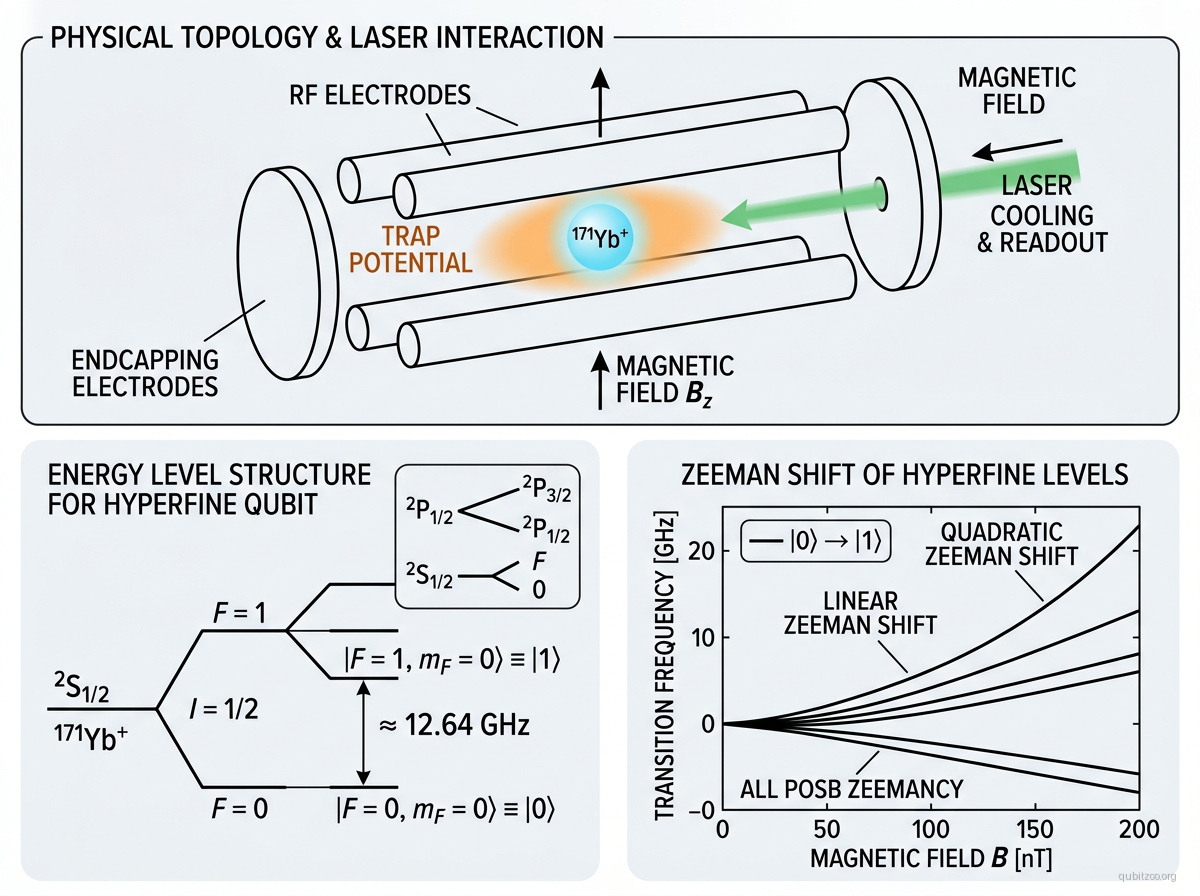
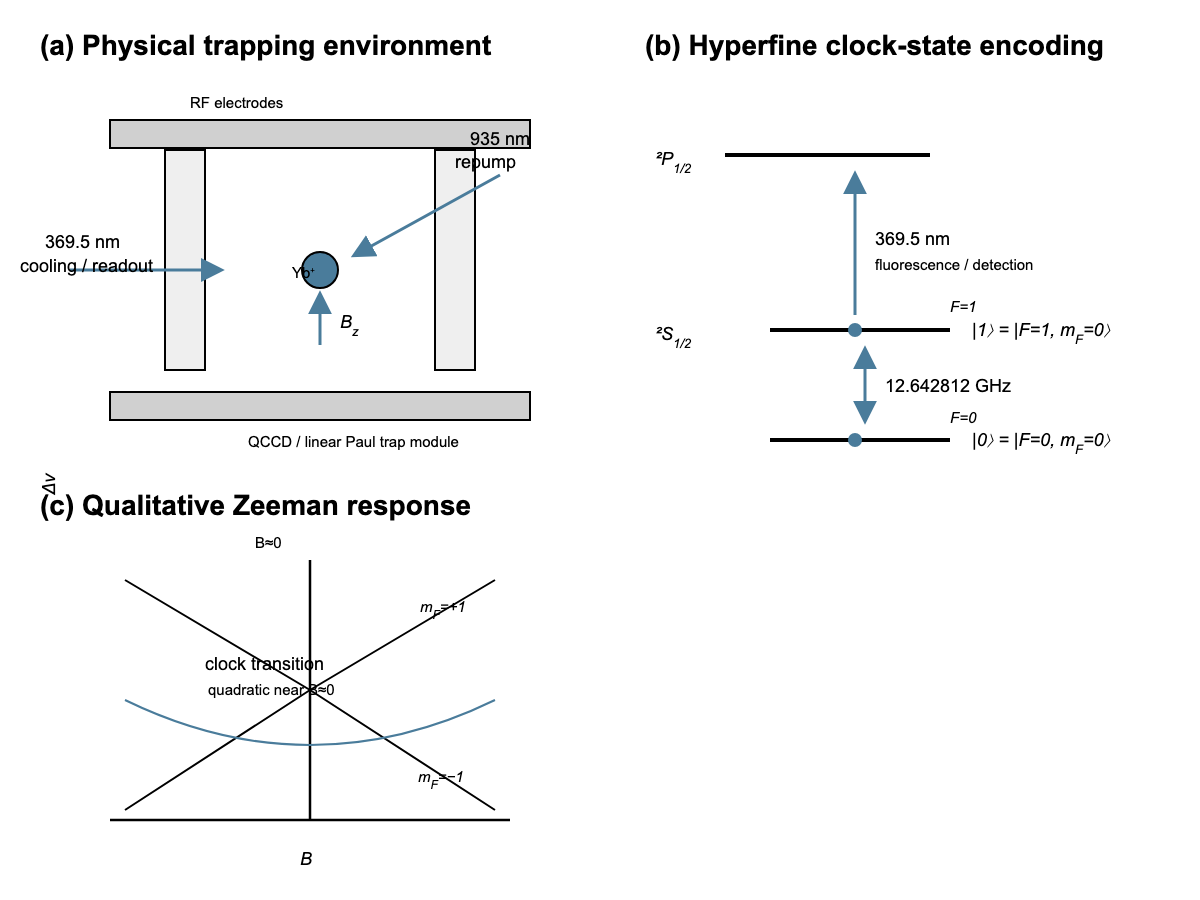
audit: refresh ytterbium-hyperfine-qubit

Changed region(s): [[0.0, 0.0312, 0.9867, 0.9688], [0.925, 0.9688, 0.9867, 1.0], [0.1233, 0.6562, 0.1542, 0.6875]]

diff --git a/content/Zoo/ytterbium-hyperfine-qubit.md b/content/Zoo/ytterbium-hyperfine-qubit.md
@@ -17,10 +17,10 @@ keywords:
 - Quantinuum
 - IonQ
 influence_score: 0.88
-last_updated: '2026-03-21'
+last_updated: '2026-05-06'
 generated_by: scibok-curation
 extracted_by: scibok
-verified_by: scibok-manual-2026-03-21
+verified_by: scibok-deep-audit-2026-05-06
 ---
 
 ## Figure
@@ -29,95 +29,118 @@ verified_by: scibok-manual-2026-03-21
 
 ## Description
 
-The ytterbium-171 hyperfine qubit encodes quantum information in the two hyperfine clock states of the $^{171}\text{Yb}^+$ ion's $^2S_{1/2}$ ground-state manifold: $|0\rangle \equiv |F=0, m_F=0\rangle$ and $|1\rangle \equiv |F=1, m_F=0\rangle$, separated by 12.642812 GHz. Both states have $m_F=0$, making the qubit first-order insensitive to magnetic field fluctuations — the transition frequency shifts only quadratically with field, enabling exceptionally long coherence times.
+The ytterbium-171 hyperfine qubit encodes quantum information in the two clock states of the $^{171}\mathrm{Yb}^+$ $^2S_{1/2}$ ground-state manifold: $|0\rangle \equiv |F=0,m_F=0\rangle$ and $|1\rangle \equiv |F=1,m_F=0\rangle$, separated by 12.642812 GHz. Because both basis states have $m_F=0$, the qubit transition is first-order insensitive to magnetic-field noise, and the frequency shifts only quadratically with $B$ near zero field.
 
-The $^{171}\text{Yb}^+$ ion has nuclear spin $I=1/2$ and no electronic angular momentum in the ground state ($J=1/2$), yielding the simplest possible hyperfine structure: just four ground states. This simplicity, combined with convenient photoionization loading and state-dependent fluorescence detection on the $^2S_{1/2} \leftrightarrow {^2P_{1/2}}$ cycling transition at 369.5 nm, makes it the workhorse qubit for multiple trapped-ion quantum computing platforms including Quantinuum (H-series processors) and IonQ.
+This species has nuclear spin $I=1/2$, so the $^2S_{1/2}$ ground manifold has a particularly simple hyperfine structure. Together with efficient fluorescence detection on the $^2S_{1/2}\leftrightarrow {}^2P_{1/2}$ transition at 369.5 nm and standard repumping through 935 nm light, that simplicity helped make $^{171}\mathrm{Yb}^+$ the workhorse qubit species for commercial trapped-ion systems such as Quantinuum H-series processors and much of IonQ's early architecture.
 
-Two-qubit entangling gates are performed via the Coulomb-mediated motional bus using either Raman transitions (stimulated Raman with 355 nm pulsed laser) or microwave-driven schemes. Gate fidelities exceeding 99.9% have been demonstrated (Ballance et al. 2016, Gaebler et al. 2016).
+Entangling gates use shared motional modes of the ion chain, typically through Raman-driven geometric-phase or Mølmer-Sørensen interactions. In mixed-species systems, $^{171}\mathrm{Yb}^+$ also plays an important auxiliary role because its clock-state coherence and laser infrastructure make it attractive for sympathetic cooling, memory, and control tasks alongside other trapped-ion qubit species.
 
 ## Hamiltonian
 
-The ground-state hyperfine Hamiltonian is:
+A representative ground-manifold Hamiltonian is
 
-$$H_{\text{hfs}} = A_{\text{hfs}} \, \mathbf{I} \cdot \mathbf{J}$$
+$$H = A_{\mathrm{hfs}}\,\mathbf{I}\cdot\mathbf{J} + \mu_B\left(g_JJ_z + g_II_z\right)B,$$
 
-where $A_{\text{hfs}}$ is the magnetic dipole hyperfine constant, $\mathbf{I}$ is the nuclear spin, and $\mathbf{J}$ is the electronic angular momentum. For $^{171}\text{Yb}^+$ with $I = J = 1/2$, this gives a splitting:
+where $A_{\mathrm{hfs}}$ is the magnetic-dipole hyperfine constant, $\mathbf{I}$ is the nuclear spin, $\mathbf{J}$ is the electronic angular momentum, and $B$ is an external magnetic field.
 
-$$\Delta E_{\text{hfs}} = A_{\text{hfs}} = h \times 12.642812\,\text{GHz}$$
+For $^{171}\mathrm{Yb}^+$, $I=J=1/2$, so the ground-state hyperfine splitting is
 
-In an external magnetic field $B$, the clock-state transition frequency has only a second-order Zeeman shift:
+$$\Delta E_{\mathrm{hfs}} = h\times 12.642812\,\mathrm{GHz}.$$
 
-$$\omega_{01}(B) = \omega_{01}(0) + \beta B^2$$
+The full field dependence is described by the Breit-Rabi formula. Near $B=0$, the clock transition $|F=0,m_F=0\rangle \leftrightarrow |F=1,m_F=0\rangle$ has no first-order Zeeman shift, so
 
-where $\beta / 2\pi \approx 310.8\,\text{Hz/mT}^2$, providing excellent field insensitivity.
+$$\omega_{01}(B) \approx \omega_{01}(0) + \beta B^2,$$
+
+with $\beta/2\pi \approx 31\,\mathrm{kHz/mT^2}$, equivalently about $310\,\mathrm{Hz/G^2}$. By contrast, the $|F=1,m_F=\pm1\rangle$ states acquire approximately linear Zeeman shifts at low field.
 
 ## Motivation
 
-Trapped-ion qubits require long coherence times and high-fidelity operations to serve as building blocks for fault-tolerant quantum computing. Hyperfine clock states in $^{171}\text{Yb}^+$ provide first-order magnetic field insensitivity without active stabilization, coherence times exceeding 10 minutes, and a microwave-frequency splitting compatible with high-stability oscillators. The simple level structure and efficient state detection make $^{171}\text{Yb}^+$ the most widely deployed trapped-ion qubit platform.
+Trapped-ion quantum computing needs qubits with long coherence, clean state preparation and measurement, and high-fidelity microwave or laser control. The $^{171}\mathrm{Yb}^+$ clock-state qubit satisfies all three. It supports hour-scale coherence under dynamical decoupling, microsecond single-qubit gates, high-fidelity fluorescence readout, and robust transport in QCCD architectures. Those properties explain why it became one of the dominant trapped-ion qubit implementations in both laboratory and commercial systems.
 
 ## Experimental Status
 
-**First characterization — Olmschenk et al. (2007):**
-- Demonstrated manipulation and detection of a trapped $\text{Yb}^+$ hyperfine qubit
-- Characterized state preparation, single-qubit gates, and state-dependent fluorescence readout
-- Established the $^{171}\text{Yb}^+$ system as a viable qubit platform
+**Foundational characterization, Olmschenk et al. (2007):**
+- Demonstrated manipulation and detection of a trapped $^{171}\mathrm{Yb}^+$ hyperfine qubit.
+- Established the canonical clock-state encoding and fluorescence-readout workflow.
 
-**High-fidelity two-qubit gates — Ballance et al. (2016):**
-- Achieved 99.9(1)% two-qubit gate fidelity using light-shift gates on $^{171}\text{Yb}^+$ hyperfine qubits
-- Oxford group demonstration using geometric phase gates
+**Microwave control scaling, Shappert et al. (2013):**
+- Demonstrated spatially uniform near-field microwave single-qubit control in a surface-electrode trap.
+- Reached about 1 $\mu$s $\pi$-rotations on the $^{171}\mathrm{Yb}^+$ hyperfine transition.
 
-**High-fidelity gate set — Gaebler et al. (2016):**
-- Demonstrated a high-fidelity universal gate set for $^9\text{Be}^+$ with amplitude-modulated Mølmer-Sørensen gates
-- Methods directly applicable and transferred to $\text{Yb}^+$ platforms
+**Fast high-fidelity readout, Noek et al. (2013):**
+- Demonstrated 99.93% state-preparation-and-measurement fidelity for a $^{171}\mathrm{Yb}^+$ hyperfine qubit.
+- Used background-suppressed fluorescence detection on the 369.5 nm cycling transition.
 
-**Long coherence — Wang et al. (2021):**
-- Single ion qubit with estimated coherence time exceeding one hour using dynamical decoupling sequences
-- Demonstrated the extraordinary coherence potential of clock-state encodings
+**Transport robustness, Kaufmann et al. (2018):**
+- Measured 99.9994% state fidelity per shuttling operation during repeated transport of a $^{171}\mathrm{Yb}^+$ hyperfine qubit.
+- Important evidence that QCCD transport can preserve clock-state information with negligible added error.
 
-**System-level deployment — Quantinuum H2 (2024):**
-- 56-qubit fully connected $^{171}\text{Yb}^+$ register
-- System-level two-qubit gate fidelities of 99.8%
-- Mid-circuit measurement and qubit reuse demonstrated, enabling real-time quantum error correction
+**Long single-ion coherence, Wang et al. (2021):**
+- Demonstrated a single-ion $^{171}\mathrm{Yb}^+$ qubit with estimated coherence time exceeding one hour under dynamical decoupling.
+- Showed how improved magnetic-noise suppression and oscillator stability push clock-state memory far beyond the raw $T_2^*$ limit.
+
+**Integrated photonic control, Hogle et al. (2023):**
+- Demonstrated high-fidelity $^{171}\mathrm{Yb}^+$ single-qubit operations using scalable photonic modulators.
+- Important because it ties Yb control fidelity to an architecture compatible with optical fanout and scaling.
+
+**Logical experiments on commercial Yb hardware, Berthusen et al. (2024):**
+- Performed 4D surface-code experiments on Quantinuum's H2 QCCD processor, which was configured with 56 physical $^{171}\mathrm{Yb}^+$ qubits.
+- Reported a physical-layer error budget dominated by two-qubit gate errors $\le 1.3\times10^{-3}$, single-qubit gate errors $\sim 3\times10^{-5}$, and SPAM errors $\sim 1.5\times10^{-3}$.
+
+**Dual-species commercial scale-up, Ransford et al. (2025):**
+- Reported Quantinuum Helios, a 98-qubit QCCD processor based on $^{137}\mathrm{Ba}^+$ data qubits.
+- Relevant here because $^{171}\mathrm{Yb}^+$ remains part of the dual-species trapped-ion toolbox for sympathetic-cooling and control roles even when it is not the data-qubit species.
+
+**Ultra-long encoded coherence, Pi et al. (2026):**
+- Reported coherence beyond ten hours in a decoherence-free clock-qubit encoding built from a pair of $^{171}\mathrm{Yb}^+$ ions, sympathetically cooled by barium.
+- Shows that ytterbium clock qubits remain a leading platform for ultra-long-lived trapped-ion quantum memory.
 
 ## Key Metrics
 
 | Metric | Value | Notes | Fidelity reference |
 |--------|-------|-------|--------------------|
-| $T_1$ | >10 s | Radiative lifetime of ground state; effectively infinite | — |
-| $T_2$ (echo) | >10 min | With dynamical decoupling sequences | [Wang et al. 2021](https://doi.org/10.1038/s41467-020-20330-w) |
-| $T_2^*$ | 1–10 s | Limited by magnetic field fluctuations | [Olmschenk et al. 2007](https://doi.org/10.1103/PhysRevA.76.052314) |
-| Hyperfine splitting | 12.642812 GHz | Clock transition, first-order field insensitive | [Olmschenk et al. 2007](https://doi.org/10.1103/PhysRevA.76.052314) |
-| 1Q gate fidelity | 99.99%+ | Randomized benchmarking | [Gaebler et al. 2016](https://doi.org/10.1103/PhysRevLett.117.060505) |
-| 2Q gate fidelity | 99.9% | Light-shift and MS gates | [Ballance et al. 2016](https://doi.org/10.1103/PhysRevLett.117.060504) |
-| SPAM fidelity | 99.93% | Electron shelving detection | [Noek et al. 2013](https://doi.org/10.1364/OE.21.021449) |
-| Gate time (1Q) | 1–10 μs | Microwave or Raman driven | [Olmschenk et al. 2007](https://doi.org/10.1103/PhysRevA.76.052314) |
-| Gate time (2Q) | 30–600 μs | Depends on gate scheme and ion number | [Gaebler et al. 2016](https://doi.org/10.1103/PhysRevLett.117.060505) |
-| Operating temperature | ~4 K (trap) | Room-temperature vacuum; ions laser-cooled to ~mK | — |
+| $T_1$ | Effectively infinite on circuit timescales | Ground-state hyperfine qubit | — |
+| Hyperfine splitting | 12.642812 GHz | Clock transition in $^2S_{1/2}$ | [Olmschenk et al. 2007](https://doi.org/10.1103/PhysRevA.76.052314) |
+| $T_2$ (single ion, DD) | >1 h | Estimated coherence exceeding 5500 s | [Wang et al. 2021](https://doi.org/10.1038/s41467-020-20330-w) |
+| $T_2$ (DFS pair) | >10 h | Pair-encoded decoherence-free clock qubit | [Pi et al. 2026](https://arxiv.org/abs/2603.19631) |
+| 1Q gate error (system) | $\sim 3\times10^{-5}$ | H2 physical-layer error budget on 56 $^{171}\mathrm{Yb}^+$ qubits | [Berthusen et al. 2024](https://doi.org/10.1103/PhysRevA.110.062413) |
+| 2Q gate error (system) | $\le 1.3\times10^{-3}$ | H2 physical-layer error budget | [Berthusen et al. 2024](https://doi.org/10.1103/PhysRevA.110.062413) |
+| SPAM fidelity (single ion) | 99.93% | Background-suppressed fluorescence detection | [Noek et al. 2013](https://doi.org/10.1364/OL.38.004735) |
+| 1Q gate time | ~1 $\mu$s | Near-field microwave $\pi$ rotations | [Shappert et al. 2013](https://doi.org/10.1088/1367-2630/15/8/083053) |
+| Transport fidelity | 99.9994% per hop | 280 $\mu$m shuttling in a microstructured trap | [Kaufmann et al. 2018](https://doi.org/10.1103/PhysRevLett.120.010501) |
+| System scale | 56 qubits | H2 configuration used for 4D surface-code experiments | [Berthusen et al. 2024](https://doi.org/10.1103/PhysRevA.110.062413) |
 
 ## References
 
-### Original characterization
-- S. Olmschenk et al., "Manipulation and detection of a trapped Yb⁺ hyperfine qubit," [Phys. Rev. A 76, 052314 (2007)](https://doi.org/10.1103/PhysRevA.76.052314)
+### Foundational characterization and control
+- S. Olmschenk et al., "Manipulation and detection of a trapped Yb⁺ hyperfine qubit," [Phys. Rev. A 76, 052314 (2007)](https://doi.org/10.1103/PhysRevA.76.052314), [arXiv:0708.0657](https://arxiv.org/abs/0708.0657)
+- C. M. Shappert et al., "Spatially uniform single-qubit gate operations with near-field microwaves and composite pulse compensation," [New J. Phys. 15, 083053 (2013)](https://doi.org/10.1088/1367-2630/15/8/083053), [arXiv:1304.6636](https://arxiv.org/abs/1304.6636)
+- R. Noek et al., "High speed, high fidelity detection of an atomic hyperfine qubit," [Opt. Lett. 38, 4735 (2013)](https://doi.org/10.1364/OL.38.004735)
+- P. Kaufmann et al., "High-Fidelity Preservation of Quantum Information During Trapped-Ion Transport," [Phys. Rev. Lett. 120, 010501 (2018)](https://doi.org/10.1103/PhysRevLett.120.010501), [arXiv:1704.02141](https://arxiv.org/abs/1704.02141)
 
-### High-fidelity gates
-- C. J. Ballance et al., "High-Fidelity Quantum Logic Gates Using Trapped-Ion Hyperfine Qubits," [Phys. Rev. Lett. 117, 060504 (2016)](https://doi.org/10.1103/PhysRevLett.117.060504)
-- J. P. Gaebler et al., "High-Fidelity Universal Gate Set for ⁹Be⁺ Ion Qubits," [Phys. Rev. Lett. 117, 060505 (2016)](https://doi.org/10.1103/PhysRevLett.117.060505)
-
-### Coherence
+### Coherence and scalable control
 - P. Wang et al., "Single ion qubit with estimated coherence time exceeding one hour," [Nat. Commun. 12, 233 (2021)](https://doi.org/10.1038/s41467-020-20330-w)
+- C. W. Hogle et al., "High-fidelity trapped-ion qubit operations with scalable photonic modulators," [npj Quantum Information 9, 67 (2023)](https://doi.org/10.1038/s41534-023-00737-1)
+- J. Pi et al., "Beyond-Ten-Hour Coherence in a Decoherence-Free Trapped-Ion Clock Qubit," [arXiv:2603.19631 (2026)](https://arxiv.org/abs/2603.19631)
 
-### SPAM
-- R. Noek et al., "High speed, high fidelity detection of an atomic hyperfine qubit," [Opt. Express 21, 21449 (2013)](https://doi.org/10.1364/OE.21.021449)
+### Commercial and logical-scale deployment
+- N. Berthusen et al., "Experiments with the four-dimensional surface code on a quantum charge-coupled device quantum computer," [Phys. Rev. A 110, 062413 (2024)](https://doi.org/10.1103/PhysRevA.110.062413), [arXiv:2408.08865](https://arxiv.org/abs/2408.08865)
+- A. Ransford et al., "A 98-qubit trapped-ion quantum computer," [arXiv:2511.05465 (2025)](https://arxiv.org/abs/2511.05465)
 
 ## Linked Papers
 
 - [[olmschenk-2007-yb171-qubit]]
-- [[ballance-2016-ion-gate-fidelity]]
-- [[gaebler-2016-ms-gate]]
+- [[noek-2013-high-speed-detection]]
+- [[wang-2021-single-ion-qubit]]
+- [[berthusen-2024-4d-surface-code-qccd]]
+- [[pi-2026-ten-hour-dfs-memory]]
+- [[ransford-2025-helios-98-qubit]]
 
 ## Related Entries
 
 - [[trapped-ion-qubit]] — parent platform
+- [[shuttling-ion-trap-qubit]] — QCCD transport architecture used in scalable ion processors
+- [[molmer-sorenson-gate]] — widely used entangling-gate family on Yb platforms
 - [[cirac-zoller-gate]] — foundational trapped-ion gate proposal
 - [[motional-mode-coupling-in-ion-traps]] — physics of the Coulomb-mediated bus
 - [[coherence-time-hierarchy]] — context for coherence comparison

diff --git a/content/References/berthusen-2024-4d-surface-code-qccd.md b/content/References/berthusen-2024-4d-surface-code-qccd.md
@@ -1,0 +1,39 @@
+---
+title: "Experiments with the four-dimensional surface code on a quantum charge-coupled device quantum computer"
+authors:
+- Noah Berthusen
+- Joan Dreiling
+- Cameron Foltz
+- John P. Gaebler
+- Thomas M. Gatterman
+- Dan Gresh
+- Nathan Hewitt
+- Michael Mills
+- Steven A. Moses
+- Brian Neyenhuis
+- Peter Siegfried
+- David Hayes
+year: 2024
+journal: "Physical Review A"
+doi: 10.1103/PhysRevA.110.062413
+arxiv_id: '2408.08865'
+type: reference
+generated_by: scibok-deep-audit
+last_updated: '2026-05-06'
+---
+
+Reports 4D surface-code experiments on Quantinuum's H2 QCCD quantum computer, configured with 56 physical $^{171}$Yb$^+$ ion qubits, and summarizes the physical-layer error budget relevant to logical-memory performance.
+
+## Key Results
+- H2 configuration used for this work contained 56 physical $^{171}$Yb$^+$ qubits
+- Physical-layer error budget was dominated by two-qubit gate errors $\le 1.3\times10^{-3}$, single-qubit gate errors $\sim 3\times10^{-5}$, and SPAM errors $\sim 1.5\times10^{-3}$
+- Demonstrated the first experimental single-shot quantum error correction with the [[33,1,4]] 4D surface code on a QCCD trapped-ion processor
+
+## Links
+- **Journal:** [Physical Review A](https://doi.org/10.1103/PhysRevA.110.062413)
+- **arXiv:** [2408.08865](https://arxiv.org/abs/2408.08865)
+
+## Zoo Links
+- [[ytterbium-hyperfine-qubit]]
+- [[trapped-ion-qubit]]
+- [[surface-code-logical-qubit]]

diff --git a/content/References/noek-2013-high-speed-detection.md b/content/References/noek-2013-high-speed-detection.md
@@ -1,21 +1,28 @@
 ---
 title: "High speed, high fidelity detection of an atomic hyperfine qubit"
-authors: [R. Noek]
+authors:
+- Rachel Noek
+- Geert Vrijsen
+- Daniel Gaultney
+- Emily Mount
+- Taehyun Kim
+- Peter Maunz
+- Jungsang Kim
 year: 2013
-journal: "Optics Express"
-doi: 10.1364/OE.21.021449
+journal: "Optics Letters"
+doi: 10.1364/OL.38.004735
 type: reference
 generated_by: scibok-audit-backfill
-last_updated: '2026-03-25'
+last_updated: '2026-05-06'
 ---
 Demonstrates high-speed, high-fidelity detection of an atomic hyperfine qubit using electron shelving, achieving 99.93% SPAM fidelity.
 
 ## Key Results
 - Achieved 99.93% SPAM fidelity for ytterbium hyperfine qubit
-- Used electron shelving detection technique for high-speed readout
+- Used background-suppressed fluorescence detection for high-speed readout
 
 ## Links
-- **Journal:** [Optics Express](https://doi.org/10.1364/OE.21.021449)
+- **Journal:** [Optics Letters](https://doi.org/10.1364/OL.38.004735)
 
 ## Zoo Links
 - [[ytterbium-hyperfine-qubit]]
